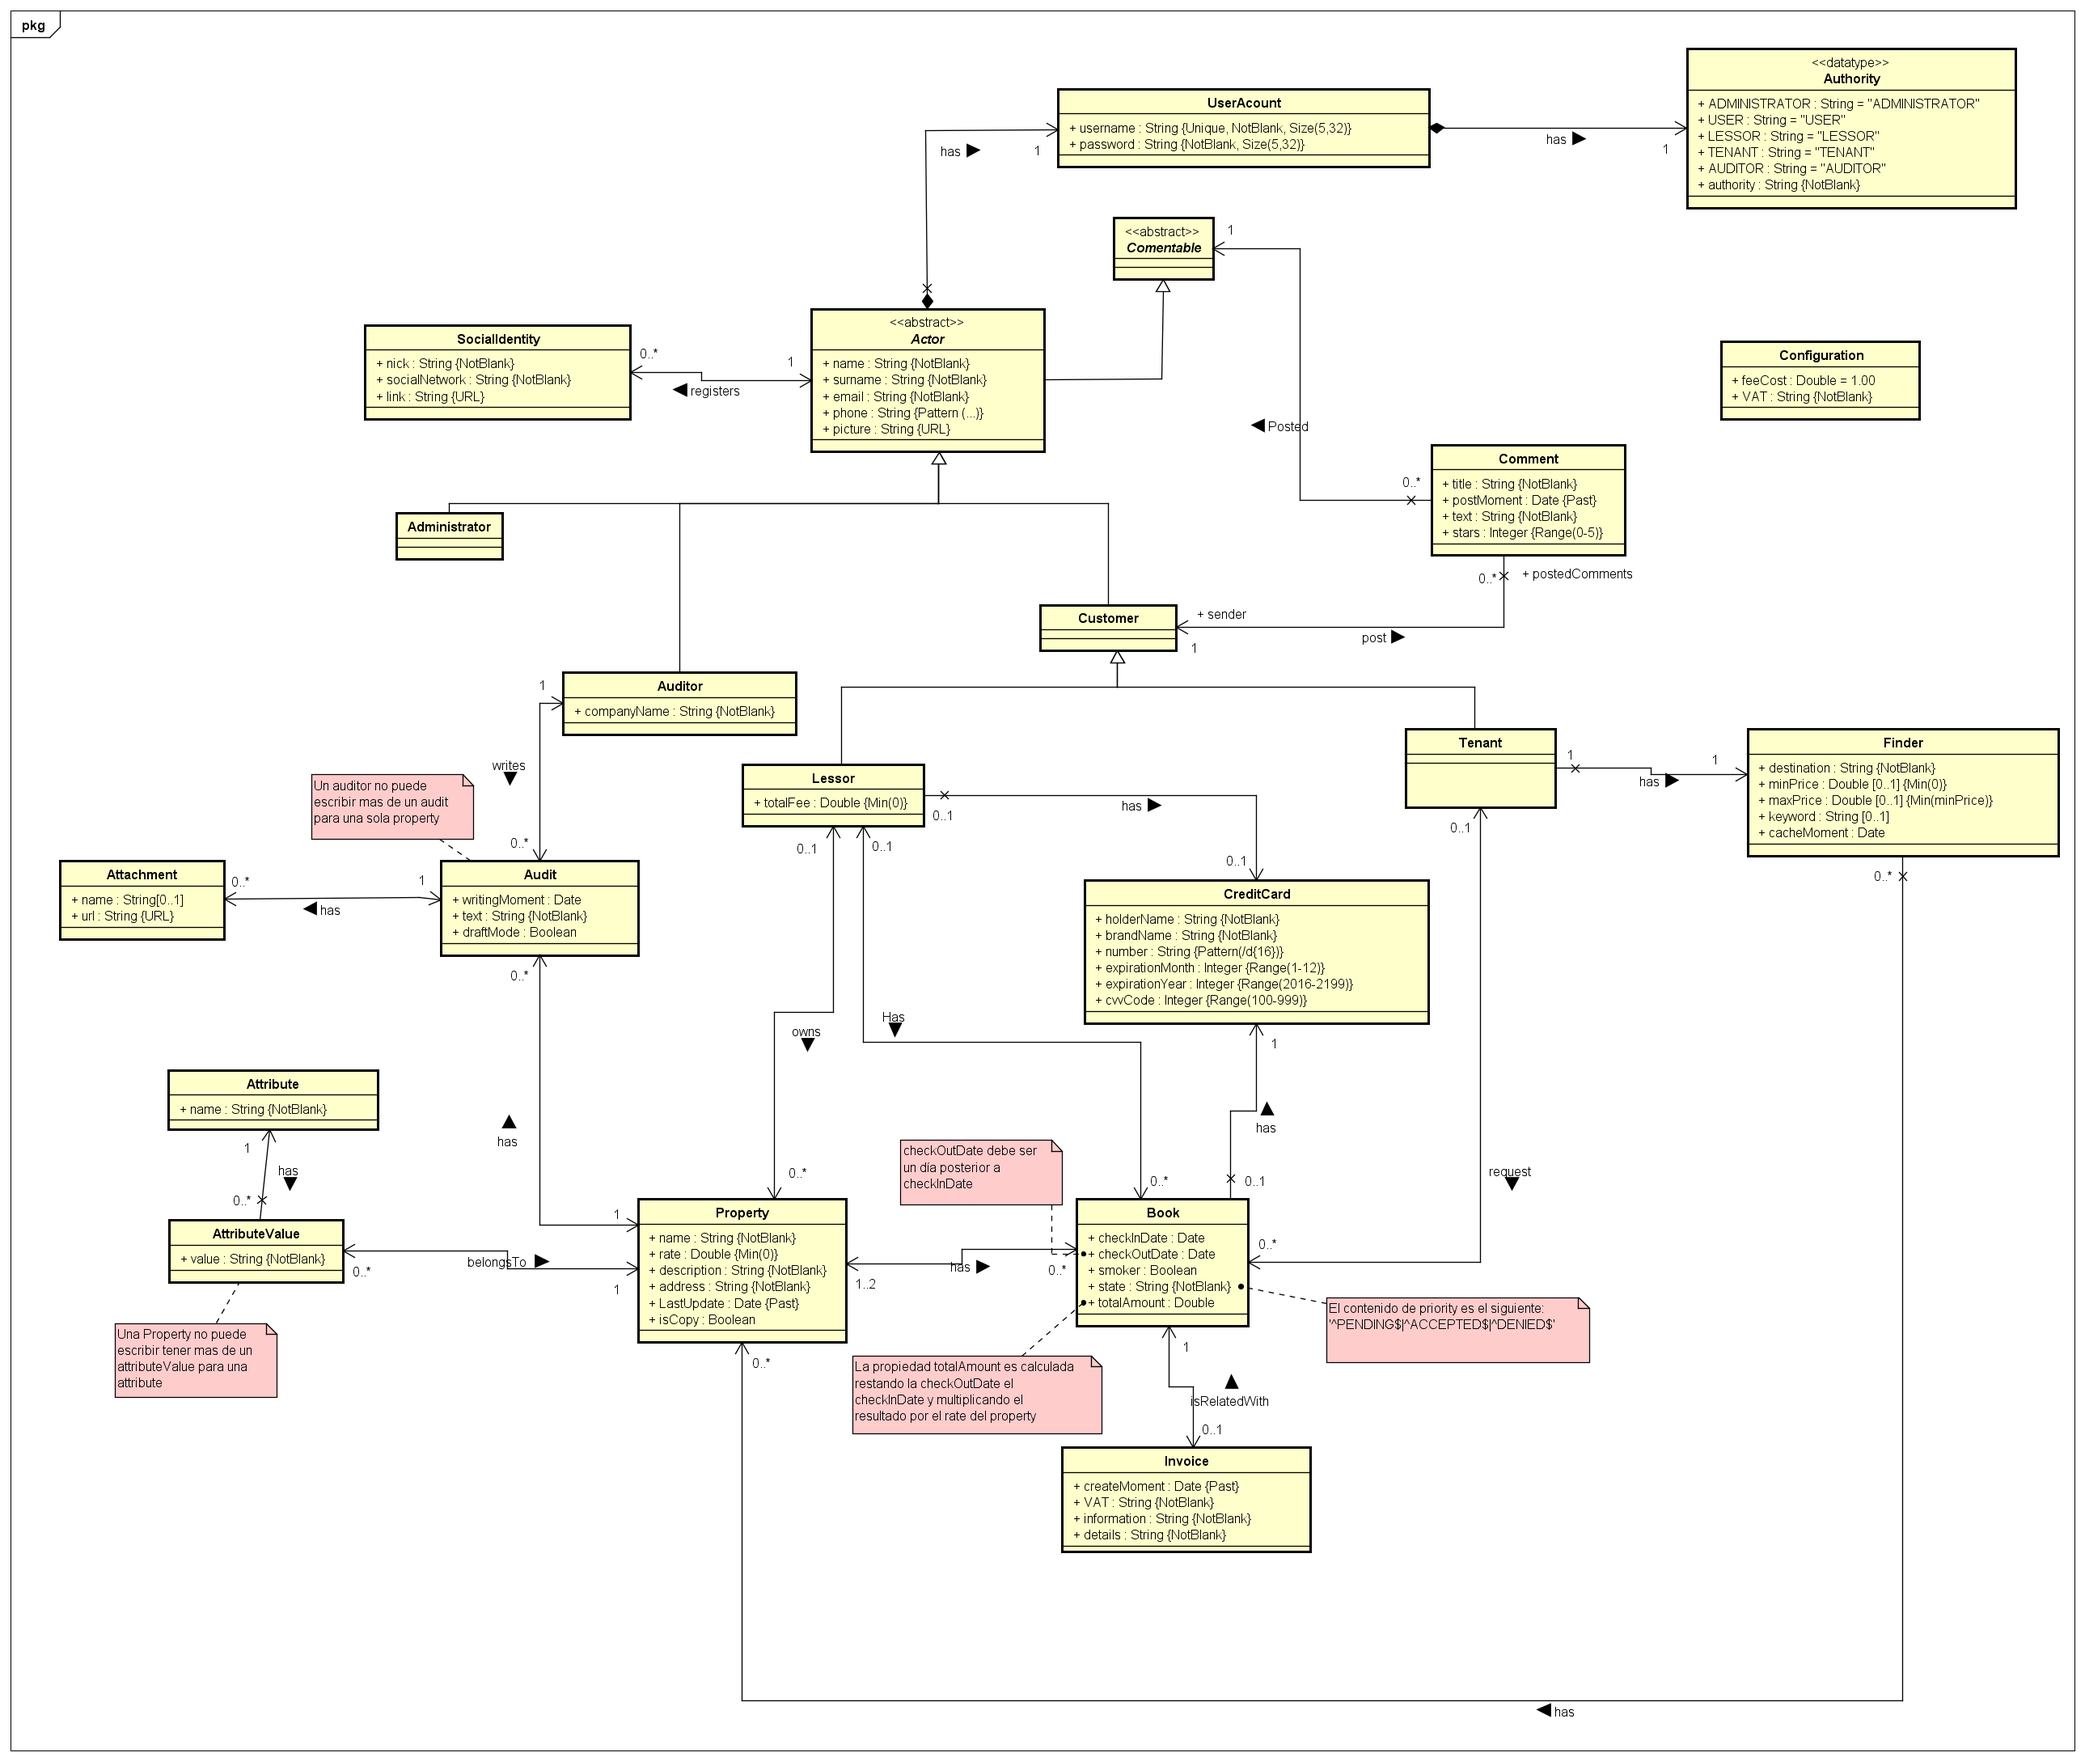
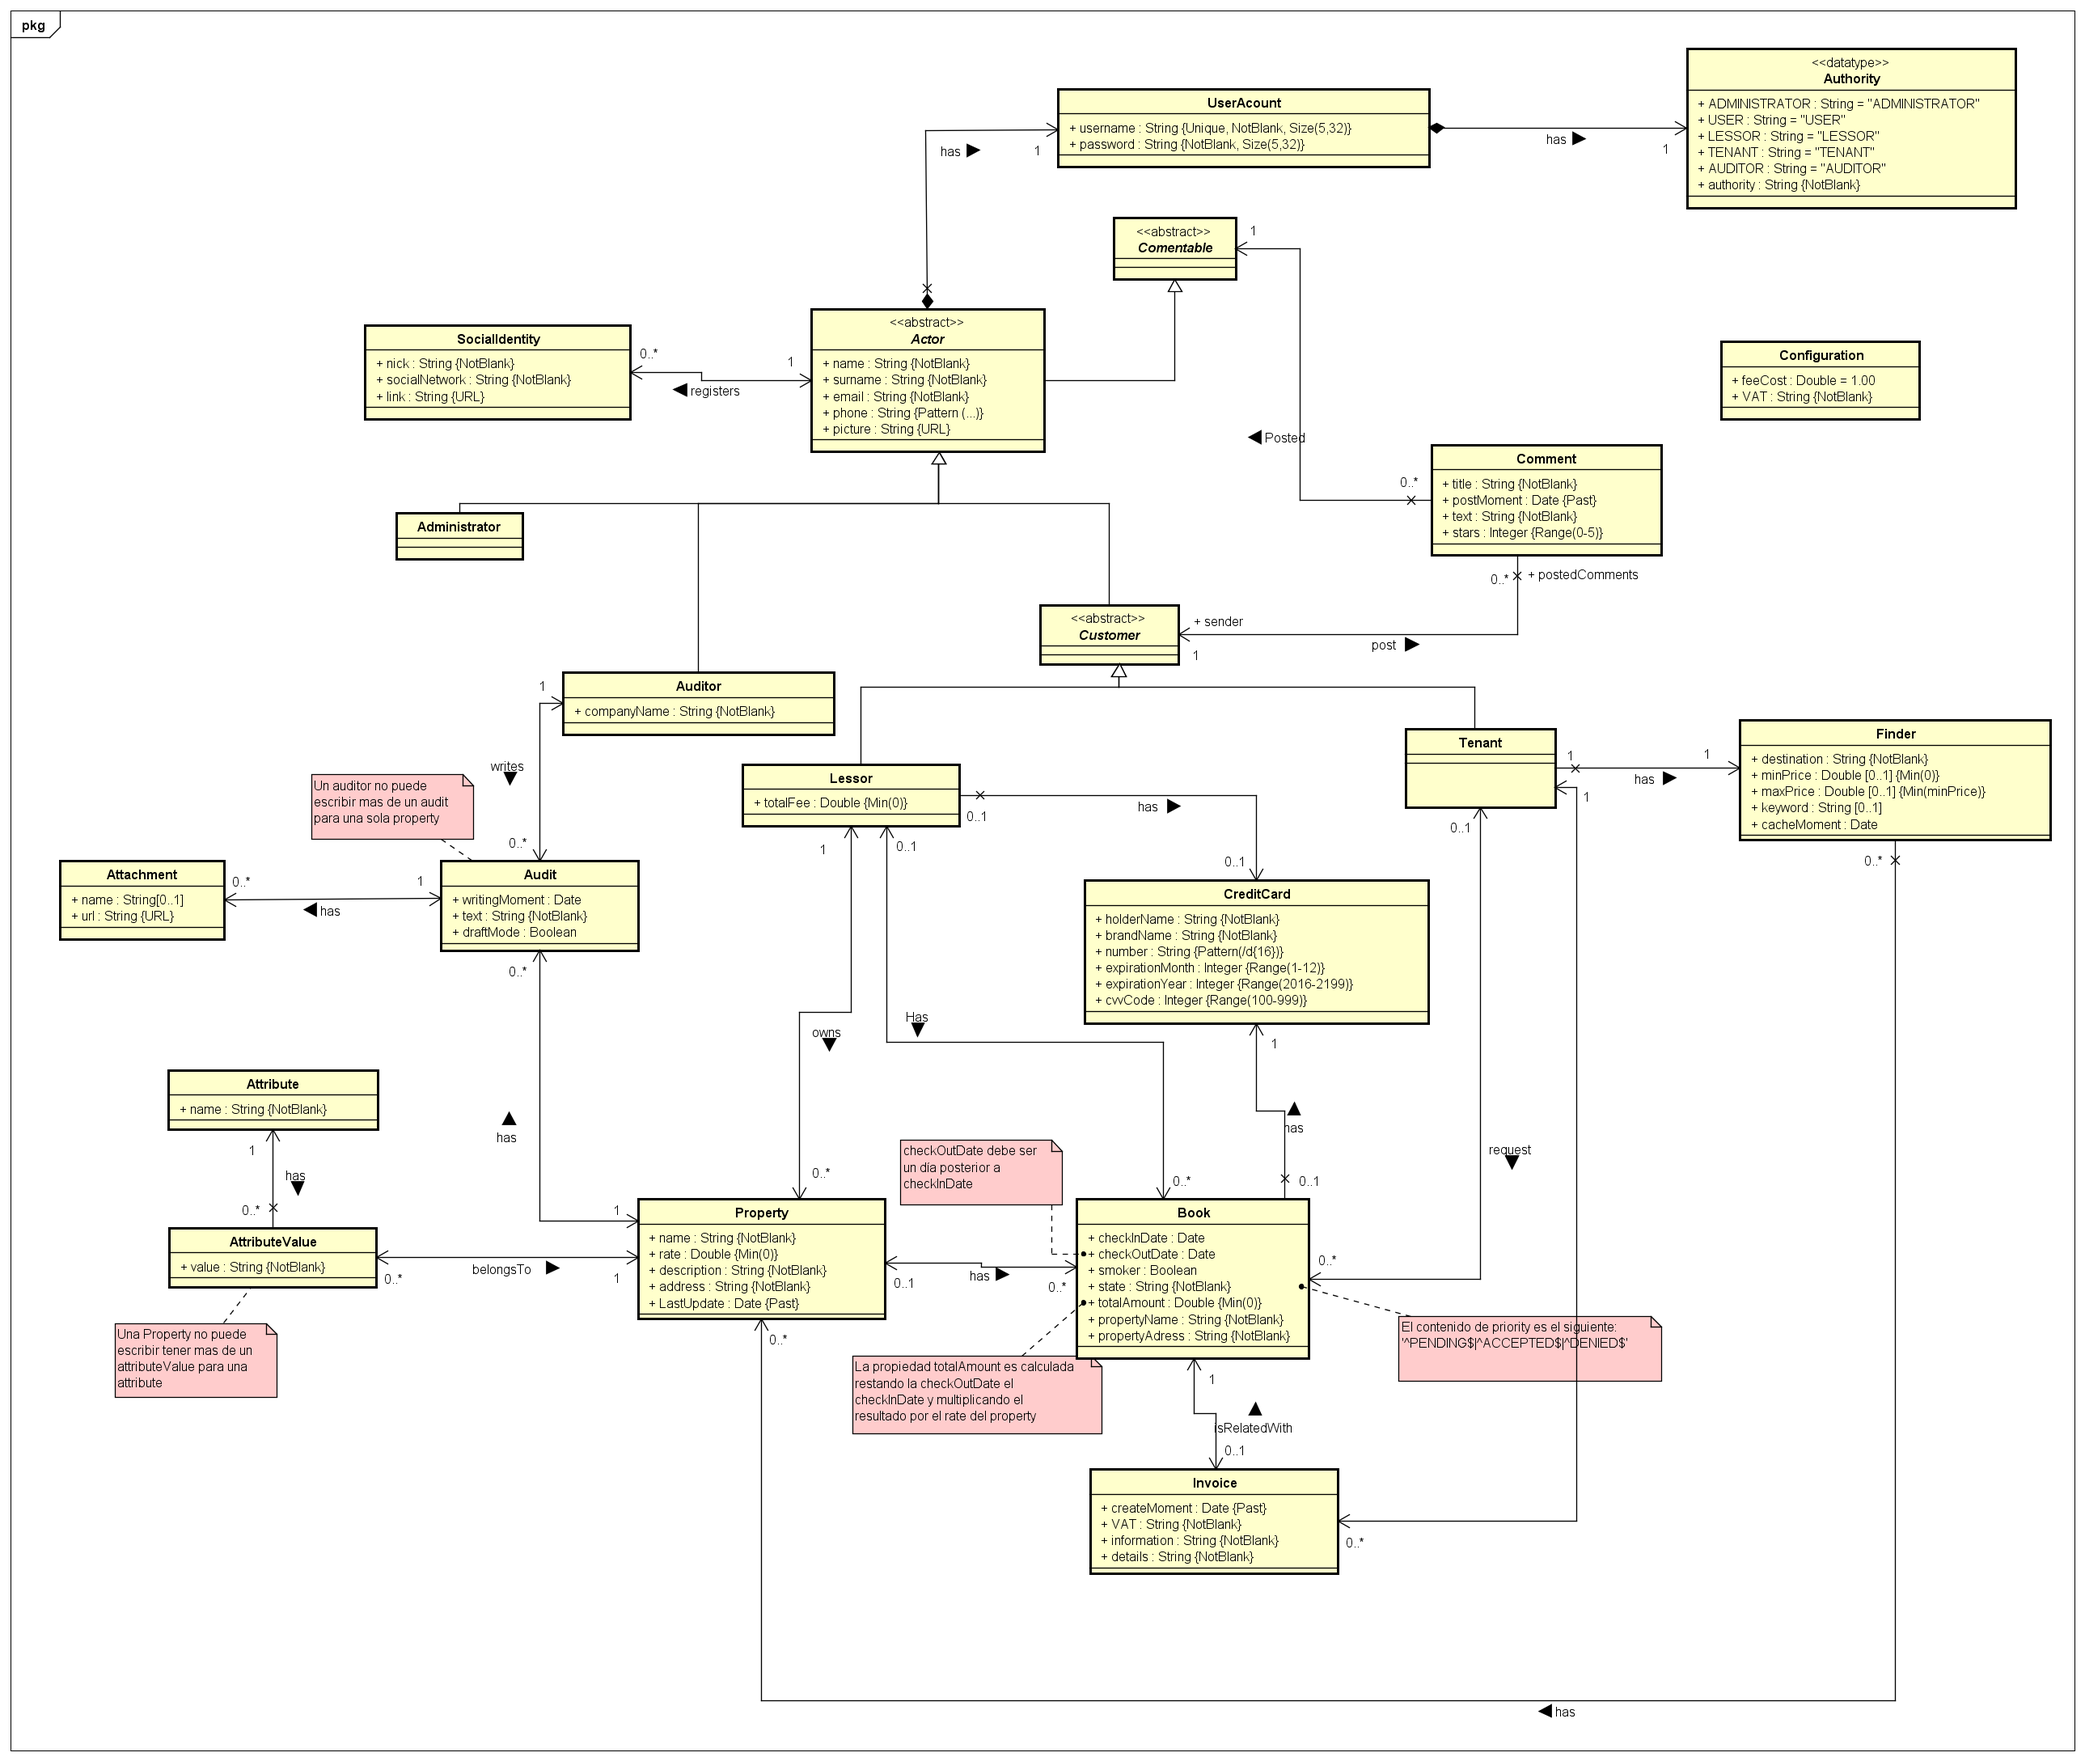
correccion*

diff --git a/Item 4/Acme BnB/src/main/java/domain/Book.java b/Item 4/Acme BnB/src/main/java/domain/Book.java
@@ -12,6 +12,7 @@ import javax.persistence.OneToOne;
 import javax.persistence.Temporal;
 import javax.persistence.TemporalType;
 import javax.validation.Valid;
+import javax.validation.constraints.Min;
 import javax.validation.constraints.NotNull;
 import javax.validation.constraints.Pattern;
 
@@ -28,7 +29,7 @@ public class Book extends DomainEntity {
 	private Date	checkOutDate;
 	private boolean	smoker;
 	private String	state;
-	private Double	totalAmount;
+	private double	totalAmount;
 	private String	propertyName;
 	private String	propertyAddress;
 
@@ -46,12 +47,11 @@ public class Book extends DomainEntity {
 	public String getPropertyAddress() {
 		return propertyAddress;
 	}
-	
+
 	public void setPropertyAddress(String propertyAddress) {
 		this.propertyAddress = propertyAddress;
 	}
 
-	
 	public void setProperty(Property property) {
 		this.property = property;
 	}
@@ -96,11 +96,12 @@ public class Book extends DomainEntity {
 		this.state = state;
 	}
 
-	public Double getTotalAmount() {
+	@Min(0)
+	public double getTotalAmount() {
 		return totalAmount;
 	}
 
-	public void setTotalAmount(Double totalAmount) {
+	public void setTotalAmount(double totalAmount) {
 		this.totalAmount = totalAmount;
 	}
 

diff --git a/Item 4/Acme BnB/src/main/java/services/BookService.java b/Item 4/Acme BnB/src/main/java/services/BookService.java
@@ -77,7 +77,6 @@ public class BookService {
 
 		Assert.notNull(book, "book.error.null");
 		checkDayAfter(book);
-		calculateTotalAmount(book);
 		checkOwnerTenantIsPrincipal(book);
 		result = bookRepository.save(book);
 		Assert.notNull(result, "book.error.commit");
@@ -137,6 +136,7 @@ public class BookService {
 		book.setCheckOutDate(bookForm.getCheckOutDate());
 		book.setCreditCard(bookForm.getCreditCard());
 		book.setSmoker(bookForm.getSmoker());
+		calculateTotalAmount(book);
 		validator.validate(book, bindingResult);
 		return book;
 	}
@@ -155,7 +155,7 @@ public class BookService {
 		Lessor owner;
 
 		principal = lessorService.findByPrincipal();
-		owner = book.getProperty().getLessor();
+		owner = book.getLessor();
 
 		Assert.isTrue(owner.equals(principal));
 	}
